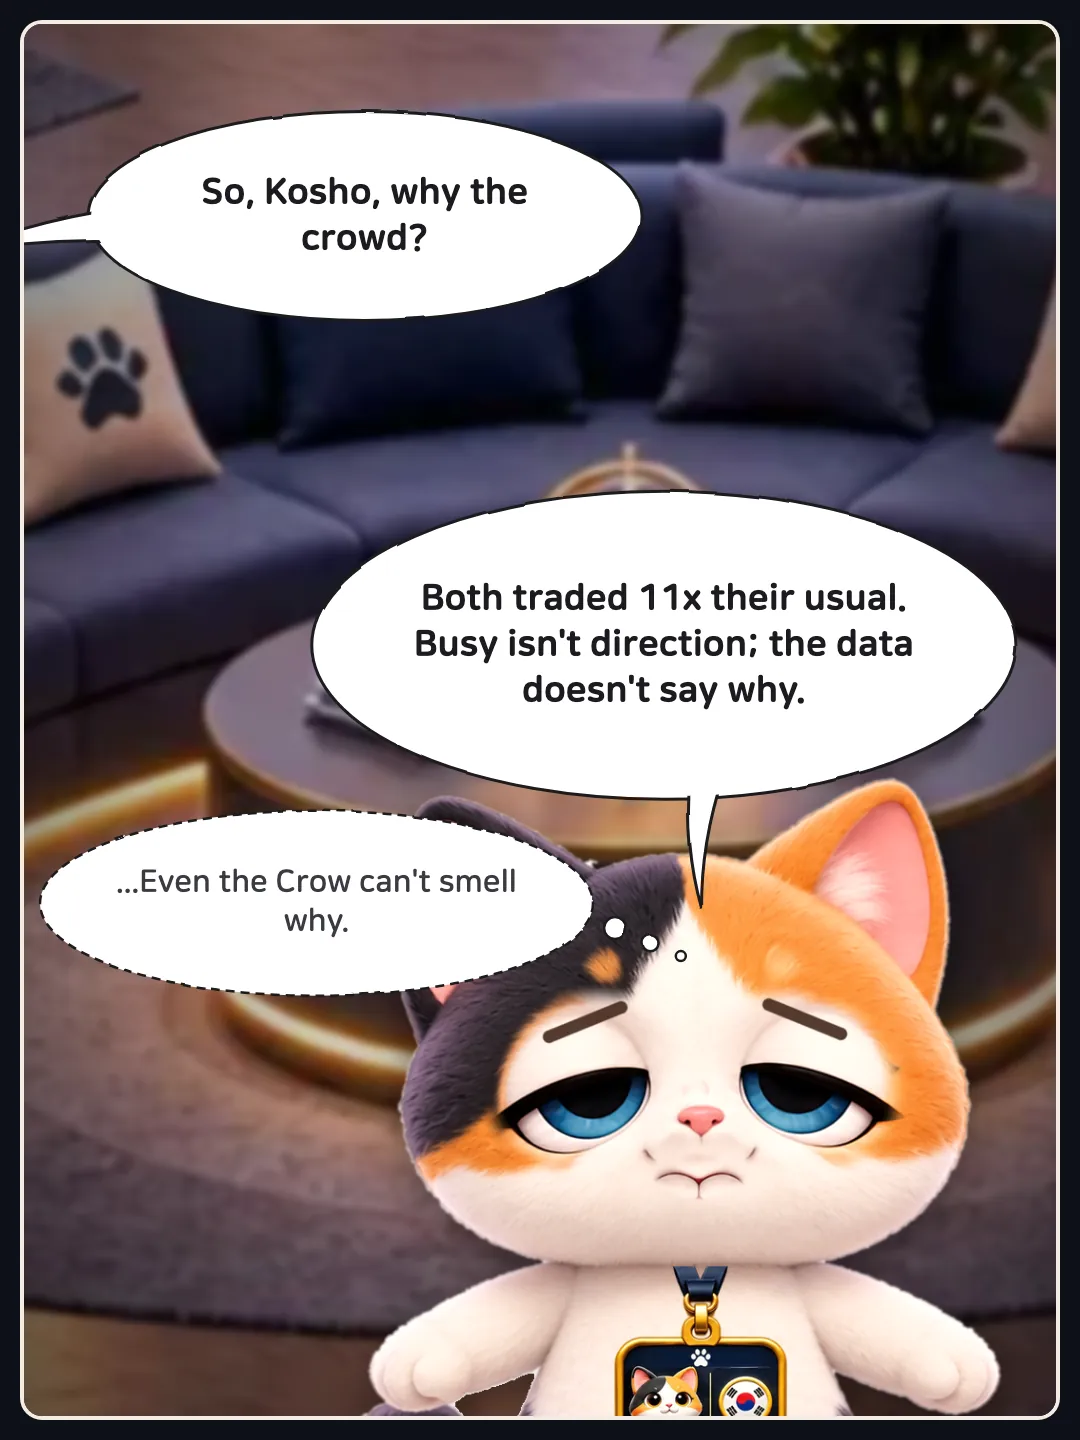
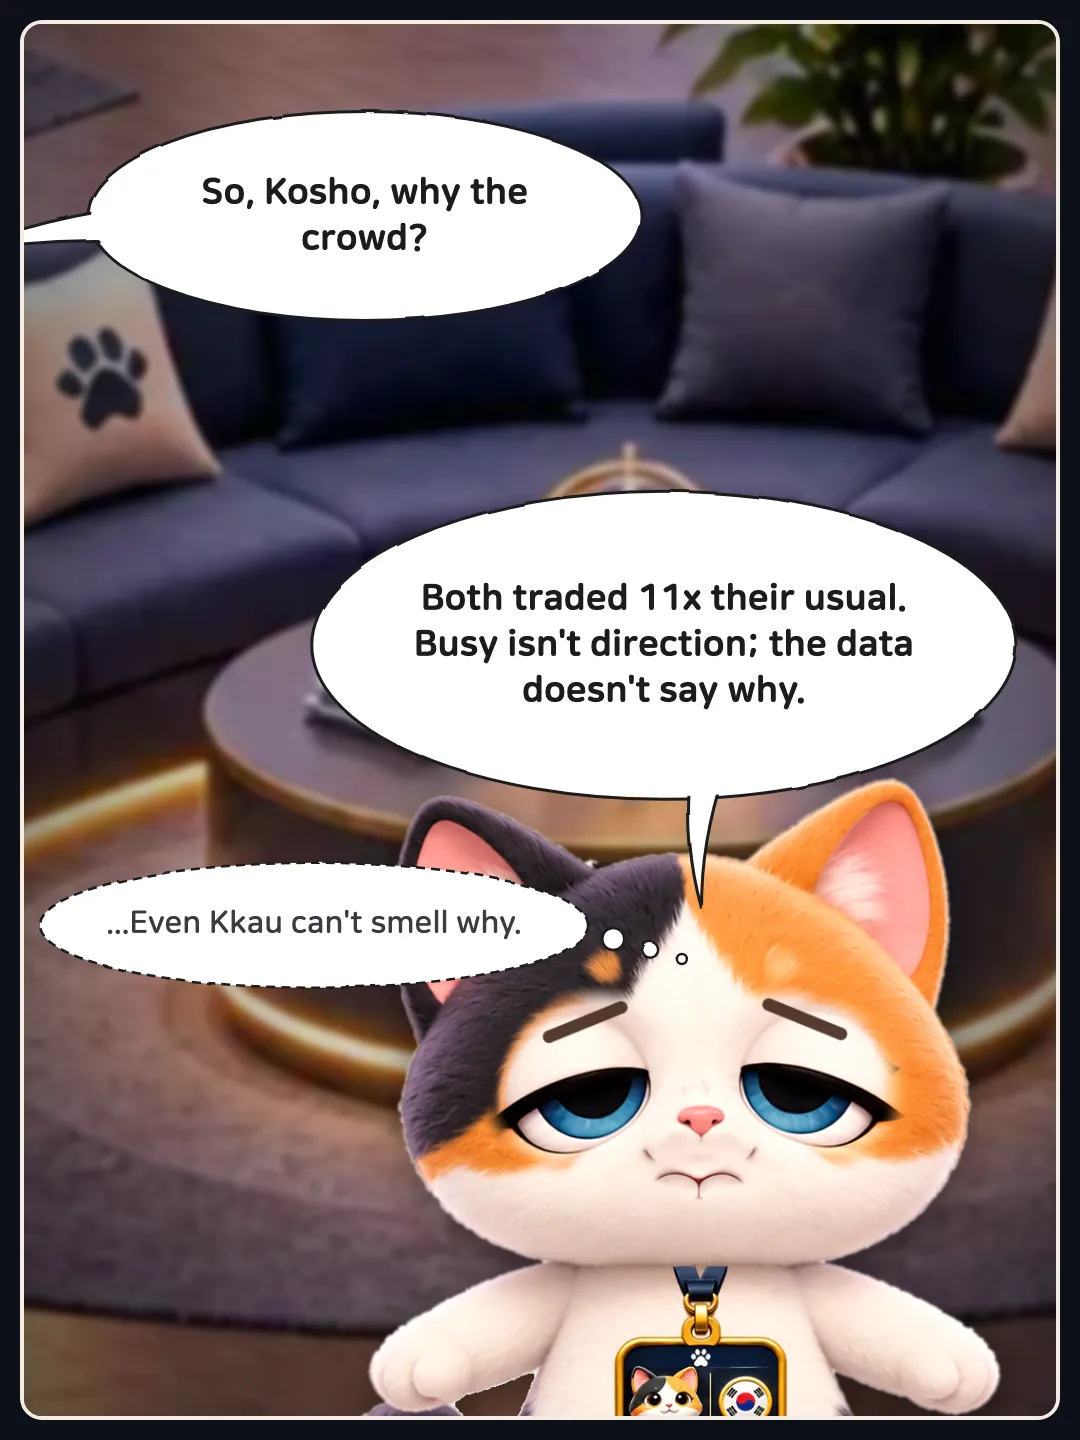
publish: 거래량 레이더: 2026-11-18 미장, 거래가 크게 늘어난 두 종목, 코인 거래량 레이더: 443개 중 3개가 걸렸어요, Volume Radar: Moonbirds Traded 81x Its Usual, 19일 국장 거래량 레이더, 에스엠 평소의 10배, Volume Radar: one crypto name got very crowded, 11월 22일 코인 거래량 레이더: 마일벌스 평소의 66배, Volume Radar: two Korean stocks got crowded, Volume Radar: Intui

diff --git a/src/content/toon/2026-11-20-radar-kr-en.md b/src/content/toon/2026-11-20-radar-kr-en.md
@@ -18,12 +18,12 @@ ogImage: /toon/2026-11-20-radar-kr-en/01.webp
 altUrl: /toon/2026-11-20-radar-kr/
 altLang: ko
 series: radar
-episode: 5
+episode: 6
 images:
 - src: /toon/2026-11-20-radar-kr-en/01.webp
   alt: 1/Cover — Who got crowded?
 - src: /toon/2026-11-20-radar-kr-en/02.webp
-  alt: '2/Talk — Beom: Crow, anything on the radar? / Kkau: Hyundai Movex hit 11x
+  alt: '2/Talk — Beom: Kkau, anything on the radar? / Kkau: Hyundai Movex hit 11x
     usual turnover. That''s eleven normal days in one session! / Kkau: Studio Dragon,
     same multiple! / Kosho: Crowded just means busy trading, not a direction. The
     data doesn''t say why.'
@@ -35,8 +35,8 @@ images:
   alt: 4/Key point — 10.6x usual turnover. Both names!
 - src: /toon/2026-11-20-radar-kr-en/05.webp
   alt: '5/Last word — Beom: So, Kosho, why the crowd? / Kosho: Both traded 11x their
-    usual. Busy isn''t direction; the data doesn''t say why. / Kosho: ...Even the
-    Crow can''t smell why.'
+    usual. Busy isn''t direction; the data doesn''t say why. / Kosho: ...Even Kkau
+    can''t smell why.'
 ---
 
 | Name | × usual turnover | Day change |

diff --git a/src/content/toon/2026-11-19-radar-crypto.md b/src/content/toon/2026-11-19-radar-crypto.md
@@ -18,12 +18,12 @@ ogImage: /toon/2026-11-19-radar-crypto/01.webp
 altUrl: /toon/2026-11-19-radar-crypto-en/
 altLang: en
 series: radar
-episode: 4
+episode: 5
 images:
 - src: /toon/2026-11-19-radar-crypto/01.webp
   alt: 1/표지 — 레이더에 뭐가 떴죠?
 - src: /toon/2026-11-19-radar-crypto/02.webp
-  alt: '2/대화 — 범: 까마귀 씨, 레이더에 뭐 떴어요? / 까우: 문버드요! 평소 하루치의 81배가 하루에 오갔어요. 사고판 사람이 엄청
+  alt: '2/대화 — 범: 까우 씨, 레이더에 뭐 떴어요? / 까우: 문버드요! 평소 하루치의 81배가 하루에 오갔어요. 사고판 사람이 엄청
     많았다는 뜻이에요 / 범: 벵갈 씨, 그 배수는 뭘로 재요? / 벵갈: 파로스도 평소의 27배였어요. 그날 거래대금을 직전 거래일들 평균으로
     나눈 값이에요'
 - src: /toon/2026-11-19-radar-crypto/03.webp

diff --git a/src/content/toon/2026-11-18-radar-us.md b/src/content/toon/2026-11-18-radar-us.md
@@ -22,7 +22,7 @@ images:
 - src: /toon/2026-11-18-radar-us/01.webp
   alt: 1/표지 — 레이더에 뭐가 떴죠?
 - src: /toon/2026-11-18-radar-us/02.webp
-  alt: '2/대화 — 범: 까마귀 씨, 레이더에 뭐 떴어요? / 까우: AES요! 평소 하루치의 12배가 하루에 오갔어요. 사고판 사람이 그만큼
+  alt: '2/대화 — 범: 까우 씨, 레이더에 뭐 떴어요? / 까우: AES요! 평소 하루치의 12배가 하루에 오갔어요. 사고판 사람이 그만큼
     많았다는 뜻이에요 / 범: 다른 건 없었어요? / 멘쿤: 타깃도 걸렸어요. 평소의 3배쯤이에요. 관심이 쏠렸다는 거지, 방향 얘기는 아니에요'
 - src: /toon/2026-11-18-radar-us/03.webp
   alt: '3/대화 — 까우: 가격도 날뛰었어요? / 멘쿤: AES 가격은 거의 그대로였어요. 거래가 많아도 가격은 따로 움직일 수 있다는 뜻이에요

diff --git a/src/content/toon/2026-11-19-radar-crypto-en.md b/src/content/toon/2026-11-19-radar-crypto-en.md
@@ -23,9 +23,9 @@ images:
 - src: /toon/2026-11-19-radar-crypto-en/01.webp
   alt: 1/Cover — Who got crowded?
 - src: /toon/2026-11-19-radar-crypto-en/02.webp
-  alt: '2/Talk — Beom: Crow, anything on the radar? / Kkau: Moonbirds traded 81x its
+  alt: '2/Talk — Beom: Kkau, anything on the radar? / Kkau: Moonbirds traded 81x its
     usual. Picture that many normal days packed into one. / Bengal: Who else got crowded,
-    Crow? / Kkau: Pharos came next at 27x. Crowded means busy trading, not up or down.'
+    Kkau? / Kkau: Pharos came next at 27x. Crowded means busy trading, not up or down.'
 - src: /toon/2026-11-19-radar-crypto-en/03.webp
   alt: '3/Talk — Beom: Did the whole market light up? / Bengal: Only 3 of 443 names
     crossed the line. Fewer hits means a rarer kind of day. / Kkau: Something smells!

diff --git a/src/content/toon/2026-11-23-radar-crypto-en.md b/src/content/toon/2026-11-23-radar-crypto-en.md
@@ -18,12 +18,12 @@ ogImage: /toon/2026-11-23-radar-crypto-en/01.webp
 altUrl: /toon/2026-11-23-radar-crypto/
 altLang: ko
 series: radar
-episode: 5
+episode: 9
 images:
 - src: /toon/2026-11-23-radar-crypto-en/01.webp
   alt: 1/Cover — Why So Crowded, PUMP?
 - src: /toon/2026-11-23-radar-crypto-en/02.webp
-  alt: '2/Talk — Beom: Anything on the radar, Crow? / Kkau: PUMP traded 5x its usual!
+  alt: '2/Talk — Beom: Anything on the radar, Kkau? / Kkau: PUMP traded 5x its usual!
     That''s five normal days of turnover in one day. / Beom: Was PUMP alone up there?
     / Bengal: Cysic hit 5x too. Crowded means lots of trading, not a direction.'
 - src: /toon/2026-11-23-radar-crypto-en/03.webp

diff --git a/src/content/toon/2026-11-23-radar-us-en.md b/src/content/toon/2026-11-23-radar-us-en.md
@@ -18,12 +18,12 @@ ogImage: /toon/2026-11-23-radar-us-en/01.webp
 altUrl: /toon/2026-11-23-radar-us/
 altLang: ko
 series: radar
-episode: 6
+episode: 11
 images:
 - src: /toon/2026-11-23-radar-us-en/01.webp
   alt: 1/Cover — Who got crowded?
 - src: /toon/2026-11-23-radar-us-en/02.webp
-  alt: '2/Talk — Beom: Anything on the radar, Crow? / Kkau: Texas Pacific Land traded
+  alt: '2/Talk — Beom: Anything on the radar, Kkau? / Kkau: Texas Pacific Land traded
     4x its usual. That''s four normal days in one! / Beom: And the other one, Maine?
     / Maine: Hewlett Packard Enterprise did 3x. Crowded means attention, not direction.'
 - src: /toon/2026-11-23-radar-us-en/03.webp

diff --git a/src/content/toon/2026-11-21-radar-crypto-en.md b/src/content/toon/2026-11-21-radar-crypto-en.md
@@ -18,12 +18,12 @@ ogImage: /toon/2026-11-21-radar-crypto-en/01.webp
 altUrl: /toon/2026-11-21-radar-crypto/
 altLang: ko
 series: radar
-episode: 5
+episode: 8
 images:
 - src: /toon/2026-11-21-radar-crypto-en/01.webp
   alt: 1/Cover — Who got so crowded?
 - src: /toon/2026-11-21-radar-crypto-en/02.webp
-  alt: '2/Talk — Beom: Crow, anything on the radar? / Kkau: ENSO traded 21x its usual
+  alt: '2/Talk — Beom: Kkau, anything on the radar? / Kkau: ENSO traded 21x its usual
     turnover. That many normal days packed into one! / Beom: Usual compared to what,
     though? / Bengal: Versus the average of the prior 10 sessions. It tracks attention,
     not direction.'

diff --git a/src/content/toon/2026-11-20-radar-us-en.md b/src/content/toon/2026-11-20-radar-us-en.md
@@ -18,12 +18,12 @@ ogImage: /toon/2026-11-20-radar-us-en/01.webp
 altUrl: /toon/2026-11-20-radar-us/
 altLang: ko
 series: radar
-episode: 5
+episode: 7
 images:
 - src: /toon/2026-11-20-radar-us-en/01.webp
   alt: 1/Cover — Who got crowded?
 - src: /toon/2026-11-20-radar-us-en/02.webp
-  alt: '2/Talk — Beom: Crow, anything on the radar? / Kkau: Intuit traded 3x its usual.
+  alt: '2/Talk — Beom: Kkau, anything on the radar? / Kkau: Intuit traded 3x its usual.
     That''s three normal days of trading in one day. / Maine: Only Intuit lit up the
     radar? / Kkau: Yep! An SEC filing with results landed just before. Overlap, not
     proof.'

diff --git a/src/content/toon/2026-11-22-radar-crypto.md b/src/content/toon/2026-11-22-radar-crypto.md
@@ -17,7 +17,7 @@ ogImage: /toon/2026-11-22-radar-crypto/01.webp
 altUrl: /toon/2026-11-22-radar-crypto-en/
 altLang: en
 series: radar
-episode: 9
+episode: 12
 images:
 - src: /toon/2026-11-22-radar-crypto/01.webp
   alt: 1/표지 — 거래가 왜 몰렸을까?

diff --git a/src/content/toon/2026-11-19-radar-kr.md b/src/content/toon/2026-11-19-radar-kr.md
@@ -17,7 +17,7 @@ ogImage: /toon/2026-11-19-radar-kr/01.webp
 altUrl: /toon/2026-11-19-radar-kr-en/
 altLang: en
 series: radar
-episode: 4
+episode: 6
 images:
 - src: /toon/2026-11-19-radar-kr/01.webp
   alt: 1/표지 — 어디가 북적였을까?
